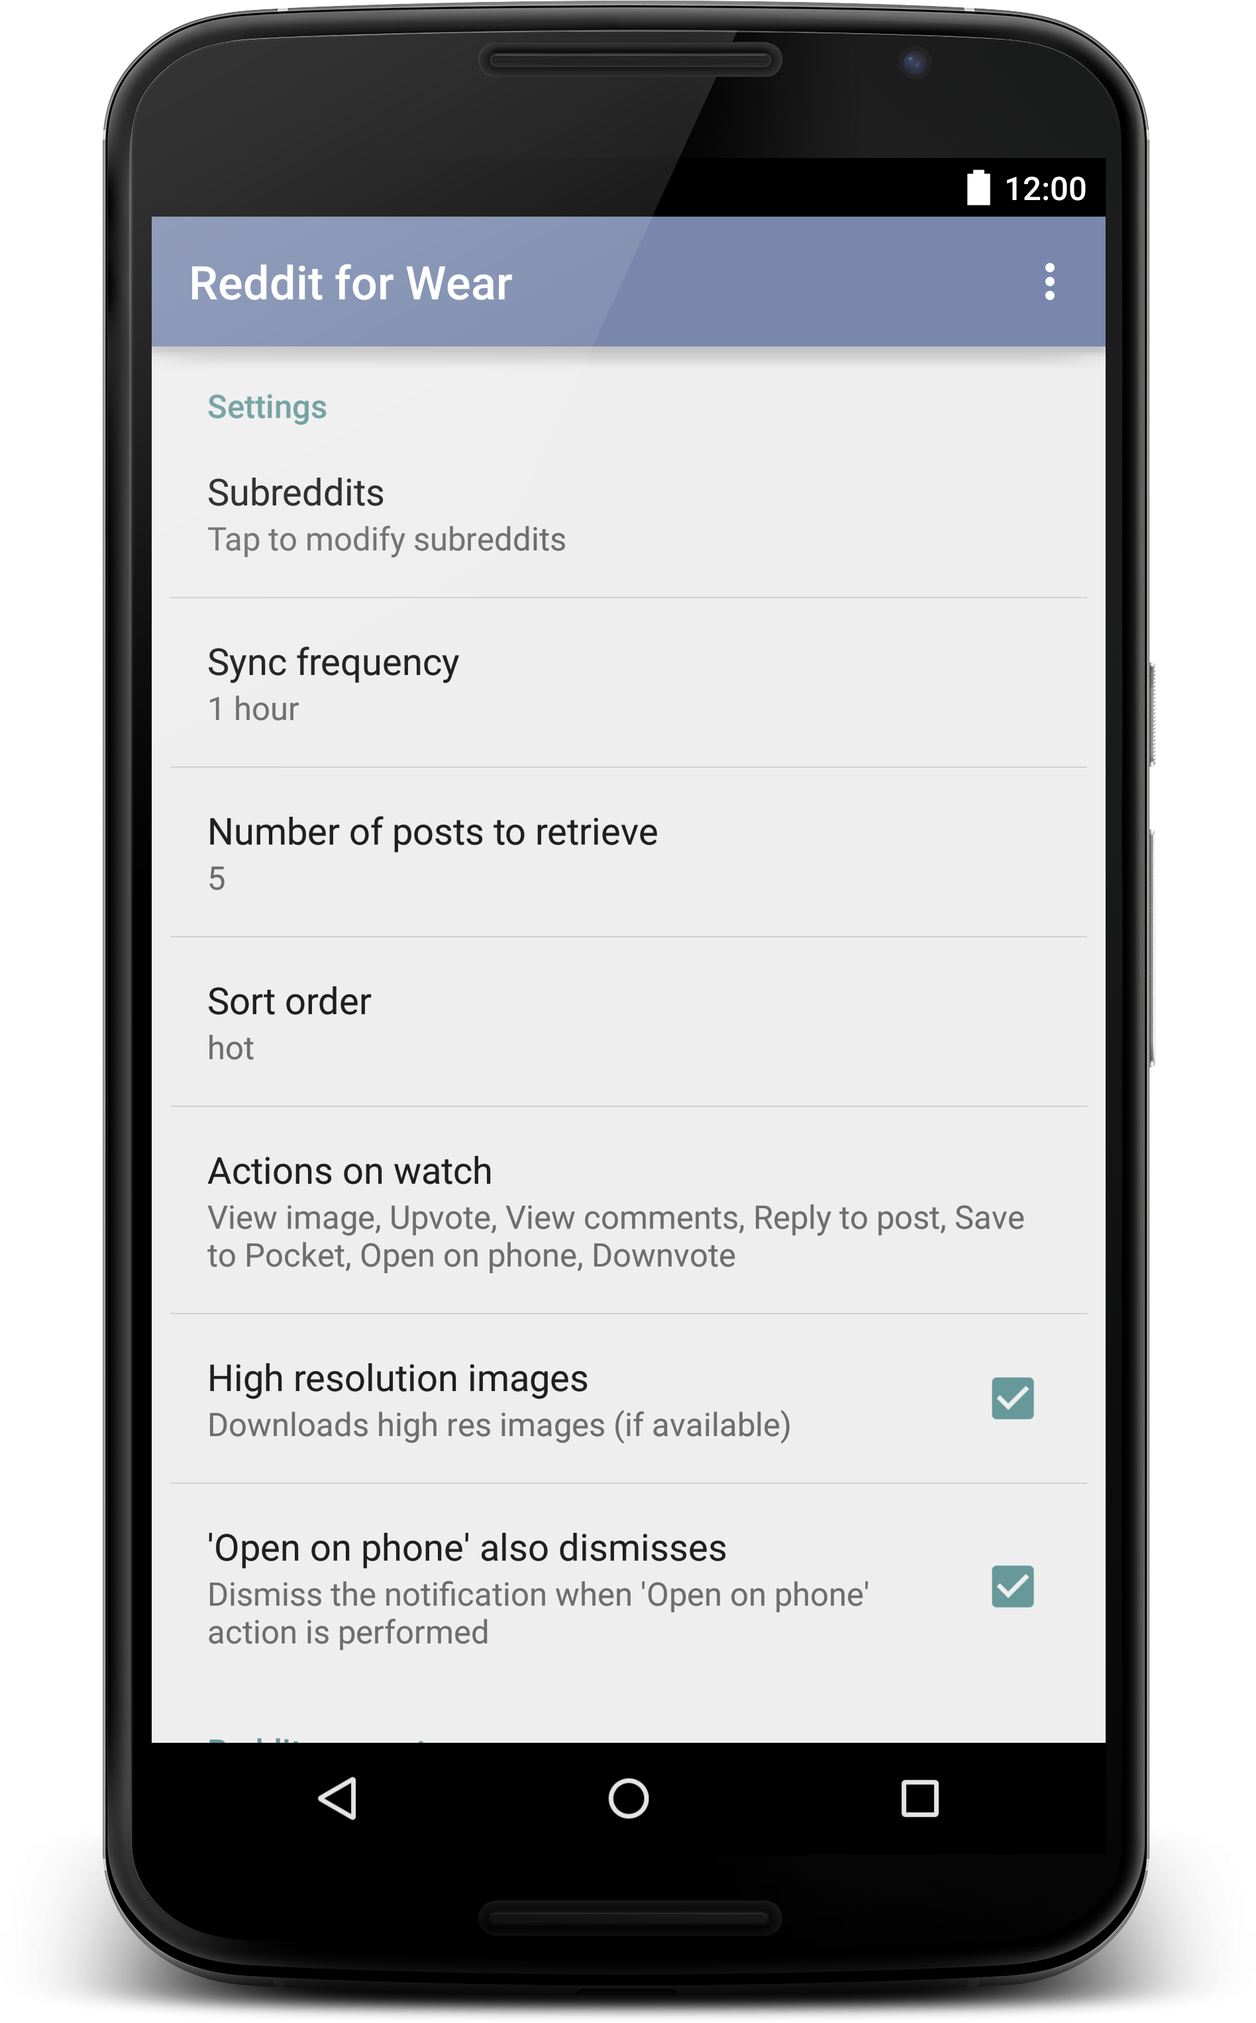
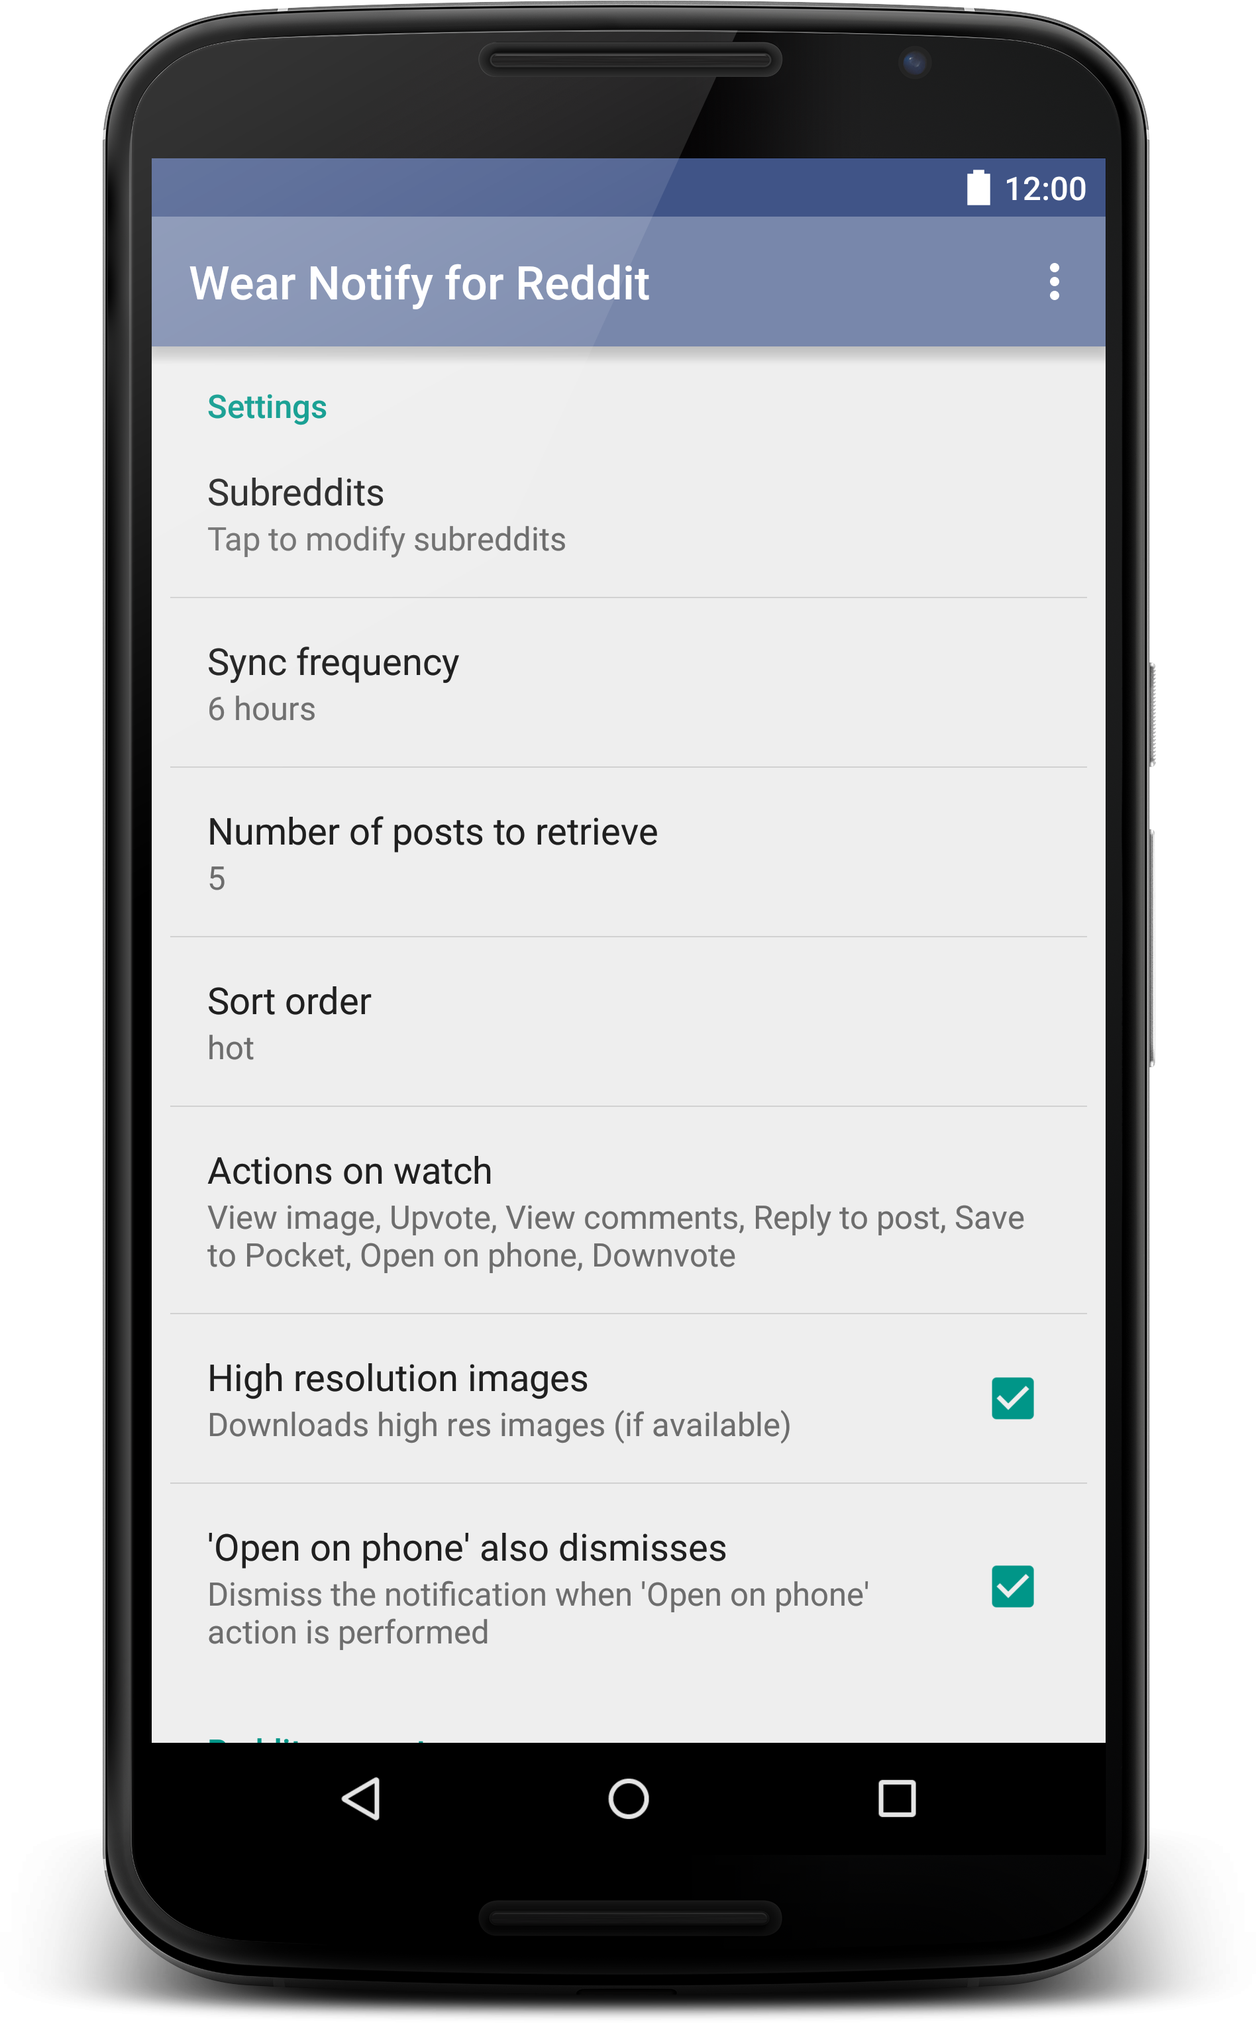
Show Toast when there are no new posts to retrieve, finish MainActivity on the wearable once notifiations have been posted

diff --git a/mobile/src/main/java/com/emmaguy/todayilearned/background/WearListenerService.java b/mobile/src/main/java/com/emmaguy/todayilearned/background/WearListenerService.java
@@ -64,7 +64,7 @@ public class WearListenerService extends WearableListenerService {
     @Override
     public void onMessageReceived(MessageEvent messageEvent) {
         if (messageEvent.getPath().equals(Constants.PATH_REFRESH)) {
-            WakefulIntentService.sendWakefulWork(this, RetrieveService.class);
+            WakefulIntentService.sendWakefulWork(this, RetrieveService.getFromWearableIntent(this));
         }
     }
 
@@ -106,11 +106,11 @@ public class WearListenerService extends WearableListenerService {
                     intent.setFlags(Intent.FLAG_ACTIVITY_NEW_TASK);
                     if (intent == null) {
                         Logger.sendEvent(getApplicationContext(), Logger.LOG_EVENT_SAVE_TO_POCKET, Logger.LOG_EVENT_FAILURE);
-                        sendReplyResult(Constants.PATH_KEY_SAVE_TO_POCKET_RESULT_FAILED);
+                        sendReplyResult(mGoogleApiClient, Constants.PATH_KEY_SAVE_TO_POCKET_RESULT_FAILED);
                     } else {
                         startActivity(intent);
                         Logger.sendEvent(getApplicationContext(), Logger.LOG_EVENT_SAVE_TO_POCKET, Logger.LOG_EVENT_SUCCESS);
-                        sendReplyResult(Constants.PATH_KEY_SAVE_TO_POCKET_RESULT_SUCCESS);
+                        sendReplyResult(mGoogleApiClient, Constants.PATH_KEY_SAVE_TO_POCKET_RESULT_SUCCESS);
                     }
                 } else if (Constants.PATH_VOTE.equals(path)) {
                     String fullname = dataMap.getString(Constants.PATH_KEY_POST_FULLNAME);
@@ -145,7 +145,7 @@ public class WearListenerService extends WearableListenerService {
                             Logger.sendEvent(getApplicationContext(), Logger.LOG_EVENT_GET_COMMENTS, Logger.LOG_EVENT_SUCCESS);
                         } else {
                             Logger.sendEvent(getApplicationContext(), Logger.LOG_EVENT_GET_COMMENTS, Logger.LOG_EVENT_FAILURE);
-                            sendReplyResult(Constants.PATH_KEY_GETTING_COMMENTS_RESULT_FAILED);
+                            sendReplyResult(mGoogleApiClient, Constants.PATH_KEY_GETTING_COMMENTS_RESULT_FAILED);
                         }
                     }
                 }, new Action1<Throwable>() {
@@ -153,7 +153,7 @@ public class WearListenerService extends WearableListenerService {
                     public void call(Throwable throwable) {
                         Logger.sendThrowable(getApplicationContext(), "Failed to get comments", throwable);
                         Logger.sendEvent(getApplicationContext(), Logger.LOG_EVENT_GET_COMMENTS, Logger.LOG_EVENT_FAILURE);
-                        sendReplyResult(Constants.PATH_KEY_GETTING_COMMENTS_RESULT_FAILED);
+                        sendReplyResult(mGoogleApiClient, Constants.PATH_KEY_GETTING_COMMENTS_RESULT_FAILED);
                     }
                 });
     }
@@ -196,13 +196,13 @@ public class WearListenerService extends WearableListenerService {
                     public void call(Throwable e) {
                         Logger.sendThrowable(getApplicationContext(), "Failed to vote", e);
                         Logger.sendEvent(getApplicationContext(), getVoteType(voteDirection), Logger.LOG_EVENT_FAILURE);
-                        sendReplyResult(Constants.PATH_KEY_VOTE_RESULT_FAILED);
+                        sendReplyResult(mGoogleApiClient, Constants.PATH_KEY_VOTE_RESULT_FAILED);
                     }
                 }, new Action0() {
                     @Override
                     public void call() {
                         Logger.sendEvent(getApplicationContext(), getVoteType(voteDirection), Logger.LOG_EVENT_SUCCESS);
-                        sendReplyResult(Constants.PATH_KEY_VOTE_RESULT_SUCCESS);
+                        sendReplyResult(mGoogleApiClient, Constants.PATH_KEY_VOTE_RESULT_SUCCESS);
                     }
                 });
     }
@@ -223,14 +223,14 @@ public class WearListenerService extends WearableListenerService {
                     @Override
                     public void onCompleted() {
                         Logger.sendEvent(getApplicationContext(), Logger.LOG_EVENT_SEND_DM, Logger.LOG_EVENT_SUCCESS);
-                        sendReplyResult(Constants.PATH_POST_REPLY_RESULT_SUCCESS);
+                        sendReplyResult(mGoogleApiClient, Constants.PATH_POST_REPLY_RESULT_SUCCESS);
                     }
 
                     @Override
                     public void onError(Throwable e) {
                         Logger.sendEvent(getApplicationContext(), Logger.LOG_EVENT_SEND_DM, Logger.LOG_EVENT_FAILURE);
                         Logger.sendThrowable(getApplicationContext(), e.getMessage(), e);
-                        sendReplyResult(Constants.PATH_POST_REPLY_RESULT_FAILURE);
+                        sendReplyResult(mGoogleApiClient, Constants.PATH_POST_REPLY_RESULT_FAILURE);
                     }
                 });
     }
@@ -250,7 +250,7 @@ public class WearListenerService extends WearableListenerService {
 
                     @Override
                     public void onCompleted() {
-                        sendReplyResult(Constants.PATH_POST_REPLY_RESULT_SUCCESS);
+                        sendReplyResult(mGoogleApiClient, Constants.PATH_POST_REPLY_RESULT_SUCCESS);
                         Logger.sendEvent(getApplicationContext(), Logger.LOG_EVENT_REPLY_TO_POST, Logger.LOG_EVENT_SUCCESS);
                     }
 
@@ -258,7 +258,7 @@ public class WearListenerService extends WearableListenerService {
                     public void onError(Throwable e) {
                         Logger.sendEvent(getApplicationContext(), Logger.LOG_EVENT_REPLY_TO_POST, Logger.LOG_EVENT_FAILURE);
                         Logger.sendThrowable(getApplicationContext(), e.getMessage(), e);
-                        sendReplyResult(Constants.PATH_POST_REPLY_RESULT_FAILURE);
+                        sendReplyResult(mGoogleApiClient, Constants.PATH_POST_REPLY_RESULT_FAILURE);
                     }
                 });
     }
@@ -280,8 +280,8 @@ public class WearListenerService extends WearableListenerService {
         return Utils.getCookie(PreferenceManager.getDefaultSharedPreferences(this), this);
     }
 
-    private void sendReplyResult(final String result) {
-        Wearable.MessageApi.sendMessage(mGoogleApiClient, "", result, null).setResultCallback(new ResultCallback<MessageApi.SendMessageResult>() {
+    public static void sendReplyResult(GoogleApiClient client, final String result) {
+        Wearable.MessageApi.sendMessage(client, "", result, null).setResultCallback(new ResultCallback<MessageApi.SendMessageResult>() {
             @Override
             public void onResult(MessageApi.SendMessageResult sendMessageResult) {
                 Logger.Log("sendReplyResult: " + result + " status " + sendMessageResult.getStatus());

diff --git a/wear/src/main/java/com/emmaguy/todayilearned/NotificationListenerService.java b/wear/src/main/java/com/emmaguy/todayilearned/NotificationListenerService.java
@@ -78,29 +78,41 @@ public class NotificationListenerService extends WearableListenerService {
 
     @Override
     public void onMessageReceived(MessageEvent messageEvent) {
+        final String path = messageEvent.getPath();
         String message = "";
+        boolean finishActivity = false;
 
-        if (messageEvent.getPath().equals(Constants.PATH_POST_REPLY_RESULT_SUCCESS)) {
+        if (path.equals(Constants.PATH_POST_REPLY_RESULT_SUCCESS)) {
             message = getString(R.string.reply_successful);
-        } else if (messageEvent.getPath().equals(Constants.PATH_POST_REPLY_RESULT_FAILURE)) {
+        } else if (path.equals(Constants.PATH_POST_REPLY_RESULT_FAILURE)) {
             message = getString(R.string.reply_failed_sad_face);
-        } else if (messageEvent.getPath().equals(Constants.PATH_KEY_SAVE_TO_POCKET_RESULT_SUCCESS)) {
+        } else if (path.equals(Constants.PATH_KEY_SAVE_TO_POCKET_RESULT_SUCCESS)) {
             message = getString(R.string.saving_to_pocket_succeeded);
-        } else if (messageEvent.getPath().equals(Constants.PATH_KEY_SAVE_TO_POCKET_RESULT_FAILED)) {
+        } else if (path.equals(Constants.PATH_KEY_SAVE_TO_POCKET_RESULT_FAILED)) {
             message = getString(R.string.saving_to_pocket_failed_sad_face);
-        } else if (messageEvent.getPath().equals(Constants.PATH_KEY_VOTE_RESULT_FAILED)) {
+        } else if (path.equals(Constants.PATH_KEY_VOTE_RESULT_FAILED)) {
             message = getString(R.string.voting_failed);
-        } else if (messageEvent.getPath().equals(Constants.PATH_KEY_VOTE_RESULT_SUCCESS)) {
+        } else if (path.equals(Constants.PATH_KEY_VOTE_RESULT_SUCCESS)) {
             message = getString(R.string.voting_succeded);
-        } else if (messageEvent.getPath().equals(Constants.PATH_KEY_GETTING_COMMENTS_RESULT_FAILED)) {
+        } else if (path.equals(Constants.PATH_KEY_GETTING_COMMENTS_RESULT_FAILED)) {
             message = getString(R.string.retrieving_comments_failed);
+        } else if (path.equals(Constants.PATH_NO_NEW_POSTS)) {
+            message = getString(R.string.no_posts_to_retrieve);
+            finishActivity = true;
         }
 
+        updateUser(message, finishActivity);
+    }
+
+    private void updateUser(String message, final boolean finishActivity) {
         if (!TextUtils.isEmpty(message)) {
             final String msg = message;
             mHandler.post(new Runnable() {
                 @Override
                 public void run() {
+                    if (finishActivity) {
+                        sendBroadcast(new Intent(getString(R.string.force_finish_main_activity)));
+                    }
                     Toast.makeText(NotificationListenerService.this, msg, Toast.LENGTH_LONG).show();
                 }
             });
@@ -205,6 +217,7 @@ public class NotificationListenerService extends WearableListenerService {
                         }
 
                         sNotificationId += NOTIFICATION_ID_INCREMENT;
+                        sendBroadcast(new Intent(getString(R.string.force_finish_main_activity)));
                     }
                 } else if (path.equals(Constants.PATH_COMMENTS)) {
                     DataMapItem dataMapItem = DataMapItem.fromDataItem(event.getDataItem());

diff --git a/mobile/src/main/java/com/emmaguy/todayilearned/background/RetrieveService.java b/mobile/src/main/java/com/emmaguy/todayilearned/background/RetrieveService.java
@@ -1,5 +1,6 @@
 package com.emmaguy.todayilearned.background;
 
+import android.content.Context;
 import android.content.Intent;
 import android.content.SharedPreferences;
 import android.graphics.Bitmap;
@@ -26,6 +27,7 @@ import com.google.android.gms.common.api.ResultCallback;
 import com.google.android.gms.wearable.Asset;
 import com.google.android.gms.wearable.DataApi;
 import com.google.android.gms.wearable.DataMap;
+import com.google.android.gms.wearable.MessageApi;
 import com.google.android.gms.wearable.PutDataMapRequest;
 import com.google.android.gms.wearable.PutDataRequest;
 import com.google.android.gms.wearable.Wearable;
@@ -56,6 +58,7 @@ import rx.schedulers.Schedulers;
 public class RetrieveService extends WakefulIntentService implements GoogleApiClient.ConnectionCallbacks, GoogleApiClient.OnConnectionFailedListener {
     private static final int WATCH_SCREEN_SIZE = 320;
     private static final int MARKER = 65536;
+    private static final String INTENT_KEY_INFORM_WATCH_NO_POSTS = "inform_no_posts";
 
     private GoogleApiClient mGoogleApiClient;
 
@@ -69,7 +72,12 @@ public class RetrieveService extends WakefulIntentService implements GoogleApiCl
     protected void doWakefulWork(Intent intent) {
         connectToWearable();
 
-        retrieveLatestPostsFromReddit();
+        boolean informWatchIfNoPosts = false;
+        if (intent.hasExtra(INTENT_KEY_INFORM_WATCH_NO_POSTS)) {
+            informWatchIfNoPosts = intent.getBooleanExtra(INTENT_KEY_INFORM_WATCH_NO_POSTS, false);
+        }
+
+        retrieveLatestPostsFromReddit(informWatchIfNoPosts);
     }
 
     private void connectToWearable() {
@@ -84,7 +92,7 @@ public class RetrieveService extends WakefulIntentService implements GoogleApiCl
         }
     }
 
-    private void retrieveLatestPostsFromReddit() {
+    private void retrieveLatestPostsFromReddit(final boolean sendInformationToWearableIfNoPosts) {
         final String cookie = Utils.getCookie(getSharedPreferences(), this);
         final String modhash = Utils.getModhash(getSharedPreferences(), this);
 
@@ -110,6 +118,9 @@ public class RetrieveService extends WakefulIntentService implements GoogleApiCl
 
                         if (posts.size() > 0) {
                             sendNewPostsData(posts);
+                        } else if (sendInformationToWearableIfNoPosts) {
+                            Logger.Log("Sending no posts information");
+                            WearListenerService.sendReplyResult(mGoogleApiClient, Constants.PATH_NO_NEW_POSTS);
                         }
                     }
                 }, new Action1<Throwable>() {
@@ -399,5 +410,15 @@ public class RetrieveService extends WakefulIntentService implements GoogleApiCl
     @Override
     public void onConnectionFailed(ConnectionResult connectionResult) {
 
+    }
+
+    public static Intent getFromWearableIntent(Context context) {
+        final Intent intent = new Intent(context, RetrieveService.class);
+        intent.putExtra(INTENT_KEY_INFORM_WATCH_NO_POSTS, true);
+        return intent;
+    }
+
+    public static Intent getFromBackgroundSyncIntent(Context context) {
+        return new Intent(context, RetrieveService.class);
     }
 }

diff --git a/wear/src/main/java/com/emmaguy/todayilearned/MainActivity.java b/wear/src/main/java/com/emmaguy/todayilearned/MainActivity.java
@@ -1,9 +1,14 @@
 package com.emmaguy.todayilearned;
 
 import android.app.Activity;
+import android.content.BroadcastReceiver;
+import android.content.Context;
+import android.content.Intent;
+import android.content.IntentFilter;
 import android.os.Bundle;
 import android.os.Handler;
 import android.widget.Toast;
+import android.widget.ViewFlipper;
 
 import com.emmaguy.todayilearned.sharedlib.Constants;
 import com.google.android.gms.common.api.GoogleApiClient;
@@ -14,7 +19,16 @@ import com.google.android.gms.wearable.Wearable;
 import java.util.concurrent.TimeUnit;
 
 public class MainActivity extends Activity implements GoogleApiClient.ConnectionCallbacks {
+    public static final int REQUEST_NEW_POSTS_TIMEOUT = 30;
+
     private GoogleApiClient mGoogleApiClient;
+
+    private final BroadcastReceiver mForceFinishMainActivity = new BroadcastReceiver() {
+        @Override
+        public void onReceive(Context context, Intent intent) {
+            finish();
+        }
+    };
 
     @Override
     protected void onCreate(Bundle savedInstanceState) {
@@ -22,6 +36,10 @@ public class MainActivity extends Activity implements GoogleApiClient.Connection
 
         setContentView(R.layout.activity_main);
 
+        ViewFlipper flipper = (ViewFlipper) findViewById(R.id.main_flipper_benefits);
+        flipper.startFlipping();
+
+        registerReceiver(mForceFinishMainActivity, new IntentFilter(getString(R.string.force_finish_main_activity)));
         mGoogleApiClient = new GoogleApiClient.Builder(this)
                 .addConnectionCallbacks(this)
                 .addApi(Wearable.API)
@@ -31,26 +49,31 @@ public class MainActivity extends Activity implements GoogleApiClient.Connection
     }
 
     @Override
+    protected void onDestroy() {
+        unregisterReceiver(mForceFinishMainActivity);
+
+        super.onDestroy();
+    }
+
+    @Override
     public void onConnected(Bundle bundle) {
         Wearable.MessageApi.sendMessage(mGoogleApiClient, "", Constants.PATH_REFRESH, null).setResultCallback(new ResultCallback<MessageApi.SendMessageResult>() {
             @Override
             public void onResult(MessageApi.SendMessageResult result) {
-                if (!result.getStatus().isSuccess()) {
-                    Toast.makeText(MainActivity.this, getString(R.string.failed_to_retrieve) + " " + result.getStatus(), Toast.LENGTH_LONG).show();
-                }
+                Logger.Log("Requested a refresh, result: " + result.getStatus());
                 finishActivity();
             }
         });
     }
 
     private void finishActivity() {
-        // ensure the user gets a chance to see that we've done a refresh
+        // the activity will be finished by the broadcast receiver in most cases, but as a backup, end it after 30 secs
         new Handler().postDelayed(new Runnable() {
             @Override
             public void run() {
                 finish();
             }
-        }, TimeUnit.SECONDS.toMillis(8));
+        }, TimeUnit.SECONDS.toMillis(REQUEST_NEW_POSTS_TIMEOUT));
     }
 
     @Override

diff --git a/mobile/src/main/java/com/emmaguy/todayilearned/ui/SubredditPreference.java b/mobile/src/main/java/com/emmaguy/todayilearned/ui/SubredditPreference.java
@@ -20,8 +20,8 @@ import java.util.List;
 import java.util.Set;
 
 public class SubredditPreference extends Preference {
-    private static Set<String> DefaultSubreddits = new HashSet<String>(Arrays.asList("todayilearned", "Android", "crazyideas", "worldnews", "britishproblems", "showerthoughts", "pics"));
-    private static Set<String> DefaultSelectedSubreddits = new HashSet<String>(Arrays.asList("todayilearned"));
+    private static Set<String> DefaultSubreddits = new HashSet<String>(Arrays.asList("todayilearned", "Android", "crazyideas", "worldnews", "britishproblems", "showerthoughts", "pics", "AskReddit"));
+    private static Set<String> DefaultSelectedSubreddits = new HashSet<String>(Arrays.asList("todayilearned", "AskReddit"));
 
     public SubredditPreference(Context context) {
         super(context, null);

diff --git a/sharedlib/src/main/java/com/emmaguy/todayilearned/sharedlib/Constants.java b/sharedlib/src/main/java/com/emmaguy/todayilearned/sharedlib/Constants.java
@@ -10,6 +10,7 @@ public class Constants {
     public static final String PATH_SAVE_TO_POCKET = "/send_to_pocket";
     public static final String PATH_VOTE = "/vote";
     public static final String PATH_COMMENTS = "/comments";
+    public static final String PATH_NO_NEW_POSTS = "/no_new_posts";
 
     public static final String KEY_REDDIT_POSTS = "posts";
     public static final String KEY_POST_PERMALINK = "post_permalink";

diff --git a/mobile/src/main/java/com/emmaguy/todayilearned/background/AppListener.java b/mobile/src/main/java/com/emmaguy/todayilearned/background/AppListener.java
@@ -29,7 +29,7 @@ public class AppListener implements WakefulIntentService.AlarmListener {
     }
 
     public void sendWakefulWork(Context context) {
-        WakefulIntentService.sendWakefulWork(context, RetrieveService.class);
+        WakefulIntentService.sendWakefulWork(context, RetrieveService.getFromBackgroundSyncIntent(context));
     }
 
     public long getMaxAge() {
